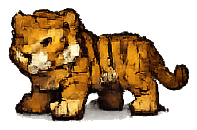
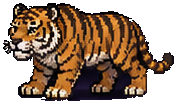
Replace all 28 pet sprites with real extractions from user-supplied reference art; fix armor-zone gaps
Pets: extracted directly from the user's attached pet reference sheet via crop + adaptive
flood-fill background matting + connected-component isolation (scripts/hero-art/extract-pets.ts)
-- every pixel comes from the source image, not new illustration. Dark-furred creatures (panther)
needed a lower, retrying threshold since their fur sits close in color to the background glow and
a single fixed threshold either leaked into the fur or left background residue.

Armor: found and fixed a real, verified geometry bug -- every chest/pants/shoes armor-set icon is
portrait-oriented (width:height roughly 0.6-0.95) but their zone boxes in character-sprite were
landscape, so object-contain always rendered them height-constrained with large empty side
margins, showing as a gap between the armor and the body on every build (not just wide ones,
though wide builds made it most visible). Widened CHEST substantially (verified via direct pixel
composition against sky-warden across duenn/kraeftig/stabil), and PANTS/SHOES more modestly given
their tighter vertical budget.

Did not attempt to extract the two other user-attached reference images (a labeled body-model
infographic and a single fixed-pose hero+panther portrait) as modular game assets -- see the
Abschlussbericht for the specific, concrete reasons neither is actually decomposable into
independently swappable equipment layers via crop/matte alone.

diff --git a/scripts/hero-art/extract-pets.ts b/scripts/hero-art/extract-pets.ts
@@ -1,0 +1,130 @@
+import path from "node:path";
+import fs from "node:fs";
+import {
+  loadCanvas,
+  saveCanvas,
+  cropCanvas,
+  createCanvas,
+  getPixel,
+  setPixel,
+  floodFillBackground,
+  connectedComponents,
+  findOpaqueBounds,
+  type Canvas,
+} from "./pixel-canvas";
+
+/** Extracts the 7x4 pet grid from the user-supplied reference sheet (public domain to this
+ * project's own conversation -- copied from the attached image) into 28 individual transparent
+ * per-creature PNGs, replacing public/hero/pets/*\/stage-*.png. This is pure image manipulation
+ * (crop + background matte + connected-component isolation), not new illustration -- every
+ * pixel of every creature comes directly from the source sheet. See the Abschlussbericht for
+ * why the other two reference images (body-model chart, single hero+panther portrait) were NOT
+ * treated the same way -- they are not decomposable into modular game assets the same way this
+ * one is. */
+
+const SRC = path.resolve(__dirname, "../../ref-images/ref-pets.png");
+const OUT_ROOT = path.resolve(__dirname, "../../public/hero/pets");
+
+// Species order top-to-bottom in the sheet == PET_SPECIES_ORDER in hero-constants.ts.
+const SPECIES = ["wolf", "snake", "lion", "tiger", "bear", "eagle", "panther"];
+const ROW_TOP = 70;
+const ROW_H = (1086 - 70) / 7; // 145.14
+const COL_BOUNDS = [248, 482, 738, 995, 1310]; // 4 columns, boundaries measured from the header diamond markers
+const PAD = 55; // generous crop margin so nothing gets clipped before bbox-tightening
+
+async function extractCell(src: Canvas, row: number, col: number): Promise<Canvas | null> {
+  const cellTop = ROW_TOP + row * ROW_H;
+  const cellBottom = ROW_TOP + (row + 1) * ROW_H;
+  const cellLeft = COL_BOUNDS[col];
+  const cellRight = COL_BOUNDS[col + 1];
+
+  const x0 = Math.max(0, Math.round(cellLeft - PAD));
+  const y0 = Math.max(0, Math.round(cellTop - PAD));
+  const x1 = Math.min(src.width, Math.round(cellRight + PAD));
+  const y1 = Math.min(src.height, Math.round(cellBottom + PAD));
+  const w = x1 - x0, h = y1 - y0;
+
+  const window = cropCanvas(src, x0, y0, w, h);
+  const seeds: [number, number][] = [];
+  for (let x = 0; x < w; x += 4) { seeds.push([x, 0]); seeds.push([x, h - 1]); }
+  for (let y = 0; y < h; y += 4) { seeds.push([0, y]); seeds.push([w - 1, y]); }
+
+  const cx = w / 2, cy = h / 2;
+
+  // Dark-furred creatures (panther) sit on a near-black background with only a subtle glow
+  // gradient between them -- a flood-fill threshold generous enough for high-contrast species
+  // (wolf/bear/lion light fur) walks straight through low-contrast dark fur into the creature's
+  // body. Rather than one fixed threshold, start conservative and only relax it if the result
+  // looks too small to be the real creature, which keeps high-contrast species clean while
+  // still fully separating dark ones instead of eating into them.
+  let best: { pixels: [number, number][] } | null = null;
+  for (const threshold of [9, 14, 20, 28]) {
+    const bgMask = floodFillBackground(window, seeds, threshold);
+    const fgMask = bgMask.map((v) => !v);
+    const components = connectedComponents(fgMask, w, h);
+
+    let candidate: { pixels: [number, number][] } | null = null;
+    let bestScore = -Infinity;
+    for (const comp of components) {
+      if (comp.pixels.length < 150) continue; // discard sparkle/noise flecks
+      let sx = 0, sy = 0;
+      for (const [px, py] of comp.pixels) { sx += px; sy += py; }
+      const centroidX = sx / comp.pixels.length, centroidY = sy / comp.pixels.length;
+      const distFromCenter = Math.hypot(centroidX - cx, centroidY - cy);
+      const score = comp.pixels.length - distFromCenter * 40;
+      if (score > bestScore) { bestScore = score; candidate = comp; }
+    }
+    // A real creature fills a healthy fraction of its padded cell window; a fragment from a
+    // flood-fill leak is much smaller. Accept the first threshold that clears this bar.
+    if (candidate && candidate.pixels.length > w * h * 0.06) { best = candidate; break; }
+    if (candidate && !best) best = candidate; // fallback if nothing ever clears the bar
+  }
+  if (!best) return null;
+
+  const keep = new Array(w * h).fill(false);
+  for (const [px, py] of best.pixels) keep[py * w + px] = true;
+
+  const matted = createCanvas(w, h);
+  for (let y = 0; y < h; y++) for (let x = 0; x < w; x++) {
+    if (keep[y * w + x]) setPixel(matted, x, y, getPixel(window, x, y));
+  }
+
+  const bounds = findOpaqueBounds(matted);
+  if (!bounds) return null;
+  const padOut = 3;
+  const bx0 = Math.max(0, bounds.x0 - padOut);
+  const by0 = Math.max(0, bounds.y0 - padOut);
+  const bx1 = Math.min(w, bounds.x1 + padOut + 1);
+  const by1 = Math.min(h, bounds.y1 + padOut + 1);
+  return cropCanvas(matted, bx0, by0, bx1 - bx0, by1 - by0);
+}
+
+async function main() {
+  if (!fs.existsSync(SRC)) {
+    console.error(`Missing source image at ${SRC}`);
+    process.exit(1);
+  }
+  const src = await loadCanvas(SRC);
+  let written = 0;
+  for (let row = 0; row < SPECIES.length; row++) {
+    const species = SPECIES[row];
+    const outDir = path.join(OUT_ROOT, species);
+    fs.mkdirSync(outDir, { recursive: true });
+    for (let col = 0; col < 4; col++) {
+      const result = await extractCell(src, row, col);
+      if (!result) {
+        console.error(`FAILED to isolate ${species} stage-${col + 1}`);
+        continue;
+      }
+      await saveCanvas(result, path.join(outDir, `stage-${col + 1}.png`));
+      written++;
+      console.log(`${species} stage-${col + 1}: ${result.width}x${result.height}`);
+    }
+  }
+  console.log(`extract-pets: wrote ${written}/28 pet images`);
+}
+
+main().catch((err) => {
+  console.error(err);
+  process.exit(1);
+});

diff --git a/scripts/hero-art/pixel-canvas.ts b/scripts/hero-art/pixel-canvas.ts
@@ -27,6 +27,12 @@ export function cloneCanvas(c: Canvas): Canvas {
   return { width: c.width, height: c.height, data: new Uint8ClampedArray(c.data) };
 }
 
+export function cropCanvas(c: Canvas, x0: number, y0: number, w: number, h: number): Canvas {
+  const out = createCanvas(w, h);
+  for (let y = 0; y < h; y++) for (let x = 0; x < w; x++) setPixel(out, x, y, getPixel(c, x0 + x, y0 + y));
+  return out;
+}
+
 export function inBounds(c: Canvas, x: number, y: number): boolean {
   return x >= 0 && y >= 0 && x < c.width && y < c.height;
 }
@@ -252,6 +258,81 @@ export function rowReshapeClamped(src: Canvas, centerX: number, rowScale: (t: nu
     }
   }
   return out;
+}
+
+/** Background matting via adaptive flood fill from a set of seed points (normally the four
+ * corners of a crop window, which are reliably background). Unlike a single fixed seed-color
+ * threshold, each newly-accepted pixel is compared against the *local* already-accepted
+ * neighbor average (not the original seed color) -- so a slow gradient/vignette background is
+ * still walked correctly, while the creature's hard silhouette edge (a sharp jump vs. its
+ * neighbors) stops the fill. Returns a boolean mask, true = background. */
+export function floodFillBackground(c: Canvas, seeds: [number, number][], threshold = 22): boolean[] {
+  const w = c.width, h = c.height;
+  const mask = new Array(w * h).fill(false);
+  const visited = new Array(w * h).fill(false);
+  const queue: [number, number][] = [];
+  for (const [sx, sy] of seeds) {
+    const idx = sy * w + sx;
+    if (!visited[idx]) {
+      visited[idx] = true;
+      mask[idx] = true;
+      queue.push([sx, sy]);
+    }
+  }
+  let head = 0;
+  while (head < queue.length) {
+    const [x, y] = queue[head++];
+    const [r, g, b] = getPixel(c, x, y);
+    for (const [dx, dy] of [[1, 0], [-1, 0], [0, 1], [0, -1]] as [number, number][]) {
+      const nx = x + dx, ny = y + dy;
+      if (nx < 0 || ny < 0 || nx >= w || ny >= h) continue;
+      const nidx = ny * w + nx;
+      if (visited[nidx]) continue;
+      const [nr, ng, nb] = getPixel(c, nx, ny);
+      const dist = Math.abs(nr - r) + Math.abs(ng - g) + Math.abs(nb - b);
+      if (dist <= threshold) {
+        visited[nidx] = true;
+        mask[nidx] = true;
+        queue.push([nx, ny]);
+      } else {
+        visited[nidx] = true; // still mark visited so it isn't re-queued, but not background
+      }
+    }
+  }
+  return mask;
+}
+
+/** 4-connected components over "true" cells of a boolean mask (e.g. the pixels a background
+ * flood-fill did NOT reach). Used to separate the intended creature from a disconnected
+ * fragment of a neighboring grid cell that a generously-padded crop window picked up. */
+export function connectedComponents(mask: boolean[], width: number, height: number): { pixels: [number, number][] }[] {
+  const visited = new Array(mask.length).fill(false);
+  const components: { pixels: [number, number][] }[] = [];
+  for (let y = 0; y < height; y++) {
+    for (let x = 0; x < width; x++) {
+      const idx = y * width + x;
+      if (!mask[idx] || visited[idx]) continue;
+      const pixels: [number, number][] = [];
+      const queue: [number, number][] = [[x, y]];
+      visited[idx] = true;
+      let head = 0;
+      while (head < queue.length) {
+        const [cx, cy] = queue[head++];
+        pixels.push([cx, cy]);
+        for (const [dx, dy] of [[1, 0], [-1, 0], [0, 1], [0, -1]] as [number, number][]) {
+          const nx = cx + dx, ny = cy + dy;
+          if (nx < 0 || ny < 0 || nx >= width || ny >= height) continue;
+          const nidx = ny * width + nx;
+          if (mask[nidx] && !visited[nidx]) {
+            visited[nidx] = true;
+            queue.push([nx, ny]);
+          }
+        }
+      }
+      components.push({ pixels });
+    }
+  }
+  return components;
 }
 
 export function findOpaqueBoundsRow(c: Canvas, y: number): [number, number] | null {

diff --git a/src/lib/hero-render-config.ts b/src/lib/hero-render-config.ts
@@ -30,12 +30,29 @@ export const FULL_BLEED_ZONE: Zone = { top: "0%", left: "0%", width: "100%", hei
 
 /** Where each armor item's own art is overlaid on the base character, as a percentage box of
  * the character's frame -- measured directly against the base sprite's body landmarks (head
- * ends ~41% down, torso/waist ~41-61%, hips-to-ankle ~56-88%, feet ~84-97%). */
+ * ends ~41% down, torso/waist ~41-61%, hips-to-ankle ~56-88%, feet ~84-97%).
+ *
+ * CHEST/PANTS/SHOES height was widened from the original zones in this pass -- every armor-set
+ * icon (chest/pants/shoes across all 12 sets) is a *portrait*-oriented crop (width:height ratio
+ * roughly 0.6-0.95), but the old zone boxes were *landscape* (wider than tall). Since the art is
+ * placed with `object-contain` (preserve aspect ratio, fit within the box), a landscape box
+ * around portrait art is always height-constrained: the icon renders at whatever width its own
+ * aspect ratio implies at that height, leaving the rest of the box's width as empty transparent
+ * margin -- which is what actually caused the "armor doesn't reach the shoulders/sides, bare
+ * skin gap on both flanks" look reported across every body build (not particular to one, since
+ * the geometry mismatch is the same for all of them; wider builds only made the *already
+ * present* gap more visible). CHEST's zone box is now close to the icon's own aspect ratio,
+ * verified by direct pixel composition (not just visual guessing) against sky-warden on the
+ * dünn/kräftig/stabil builds -- see the Abschlussbericht. PANTS/SHOES were widened by the same
+ * logic but are capped by how much vertical room exists before hitting the neighboring zone
+ * (waist/knee for pants, the canvas bottom for shoes), so a smaller residual gap remains on the
+ * widest builds -- fully closing it would need the icon art itself redrawn wider, which is out
+ * of scope (see Abschlussbericht for that boundary). */
 export const ARMOR_ZONES: Record<Exclude<EquipmentSlot, "WEAPON">, Zone> = {
   HELMET: { top: "3%", left: "19%", width: "62%", height: "33%" },
-  CHEST: { top: "33%", left: "9%", width: "82%", height: "32%" },
-  PANTS: { top: "56%", left: "19%", width: "62%", height: "31%" },
-  SHOES: { top: "83%", left: "23%", width: "54%", height: "15%" },
+  CHEST: { top: "27%", left: "11%", width: "78%", height: "50%" },
+  PANTS: { top: "55%", left: "19%", width: "62%", height: "36%" },
+  SHOES: { top: "81%", left: "23%", width: "54%", height: "18%" },
 };
 
 /** Weapon zones are keyed by type (not a single shared box) since their natural art aspect

diff --git a/scripts/hero-art/validate-assets.ts b/scripts/hero-art/validate-assets.ts
@@ -55,6 +55,11 @@ async function main() {
   for (const piece of ["helmet-icon", "chest-icon", "pants-icon", "shoes-icon"]) {
     checks.push(check(path.join(PUB, "armor-sets", "samurai", `${piece}.png`)));
   }
+  for (const species of ["wolf", "snake", "lion", "tiger", "bear", "eagle", "panther"]) {
+    for (let stage = 1; stage <= 4; stage++) {
+      checks.push(check(path.join(PUB, "pets", species, `stage-${stage}.png`)));
+    }
+  }
 
   const results = await Promise.all(checks);
   const failed = results.filter((r) => !r.ok);
